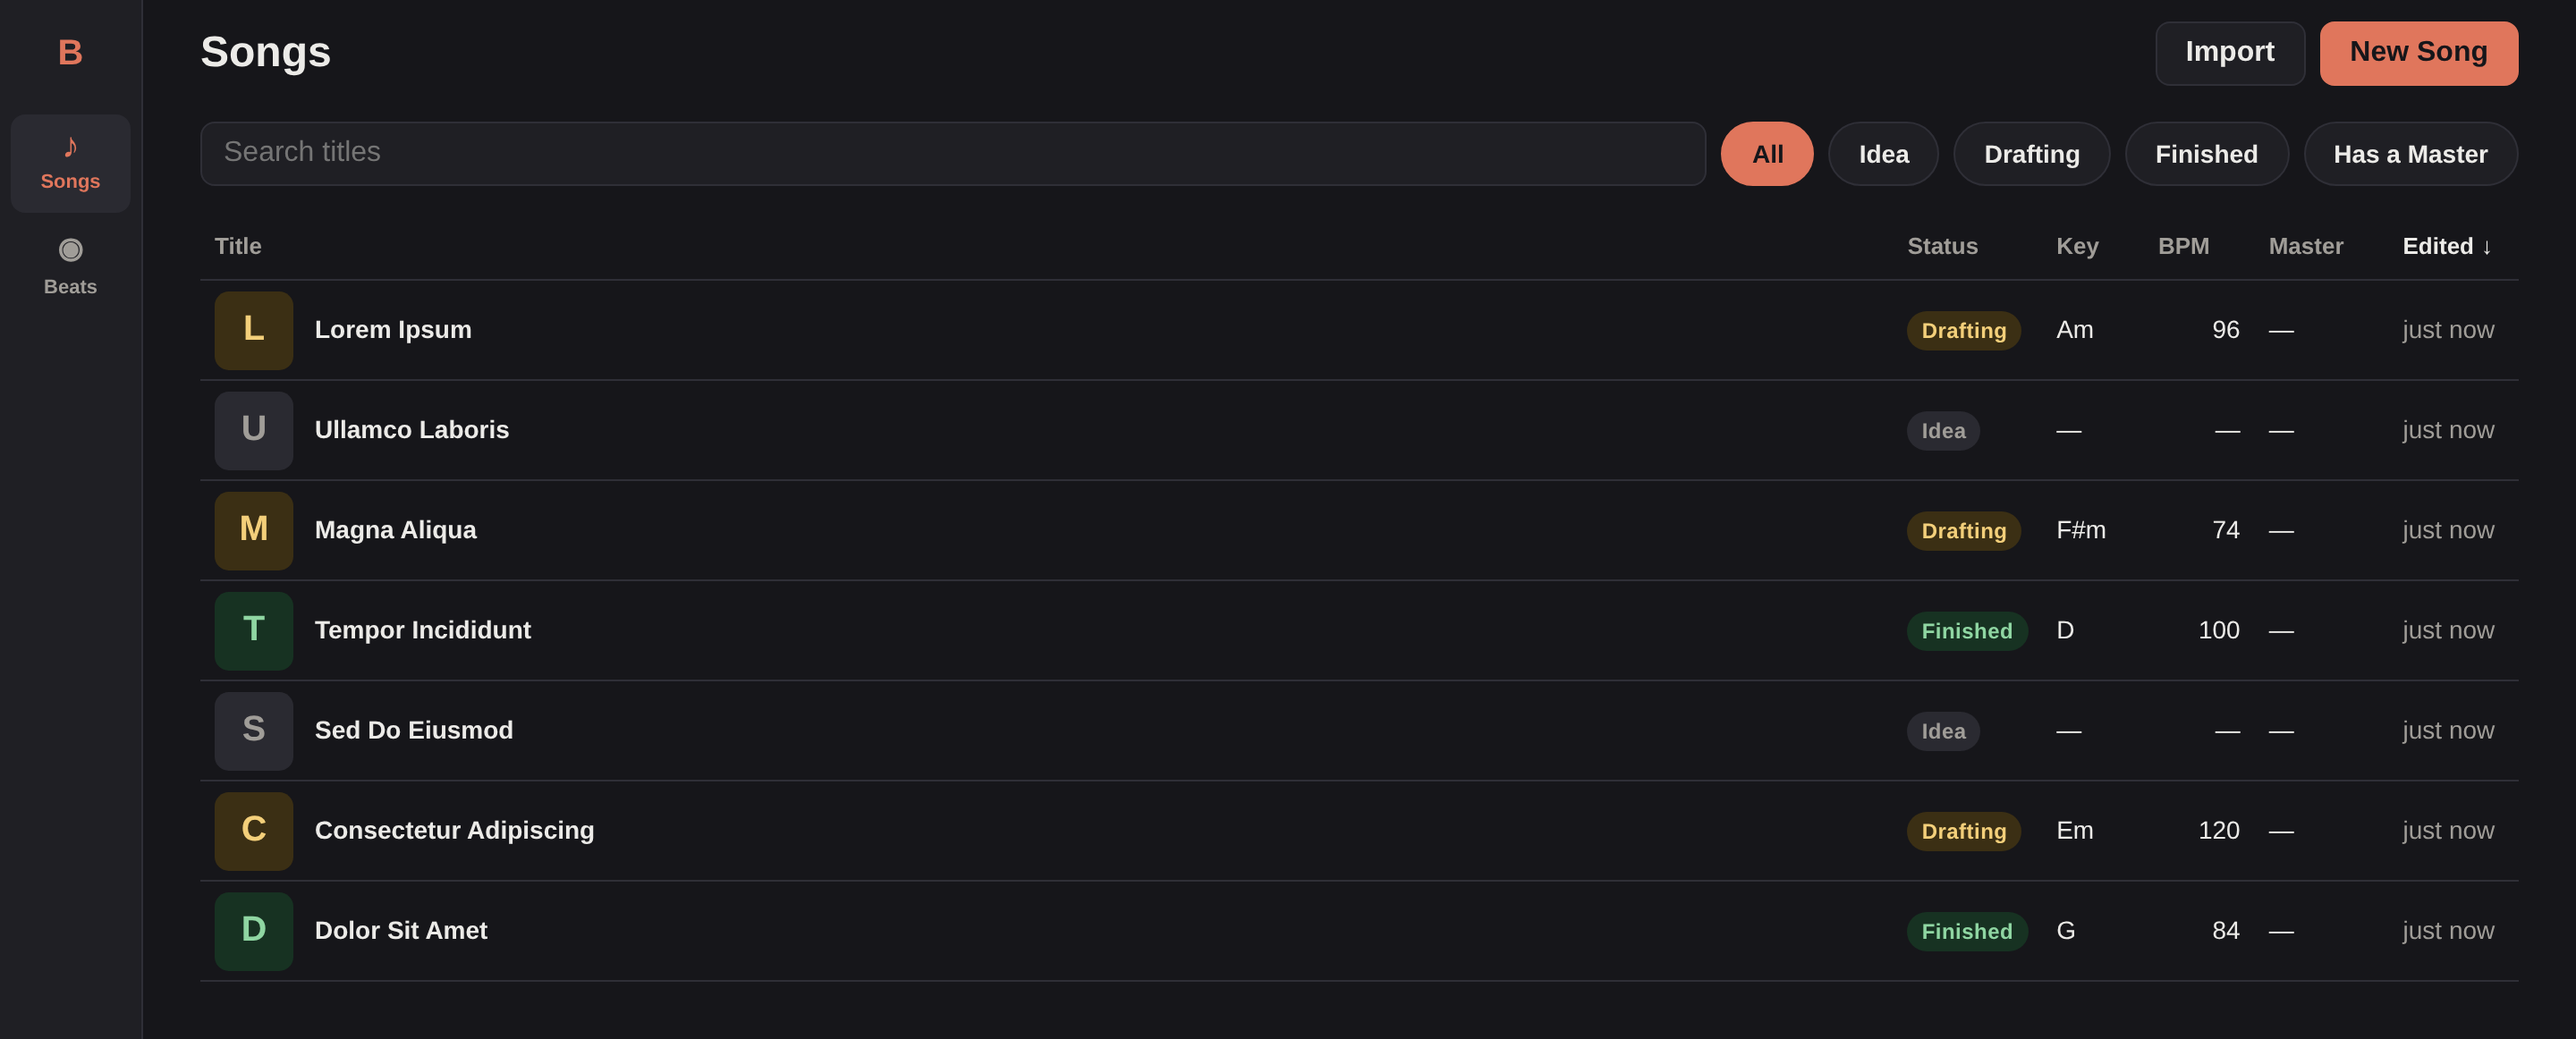
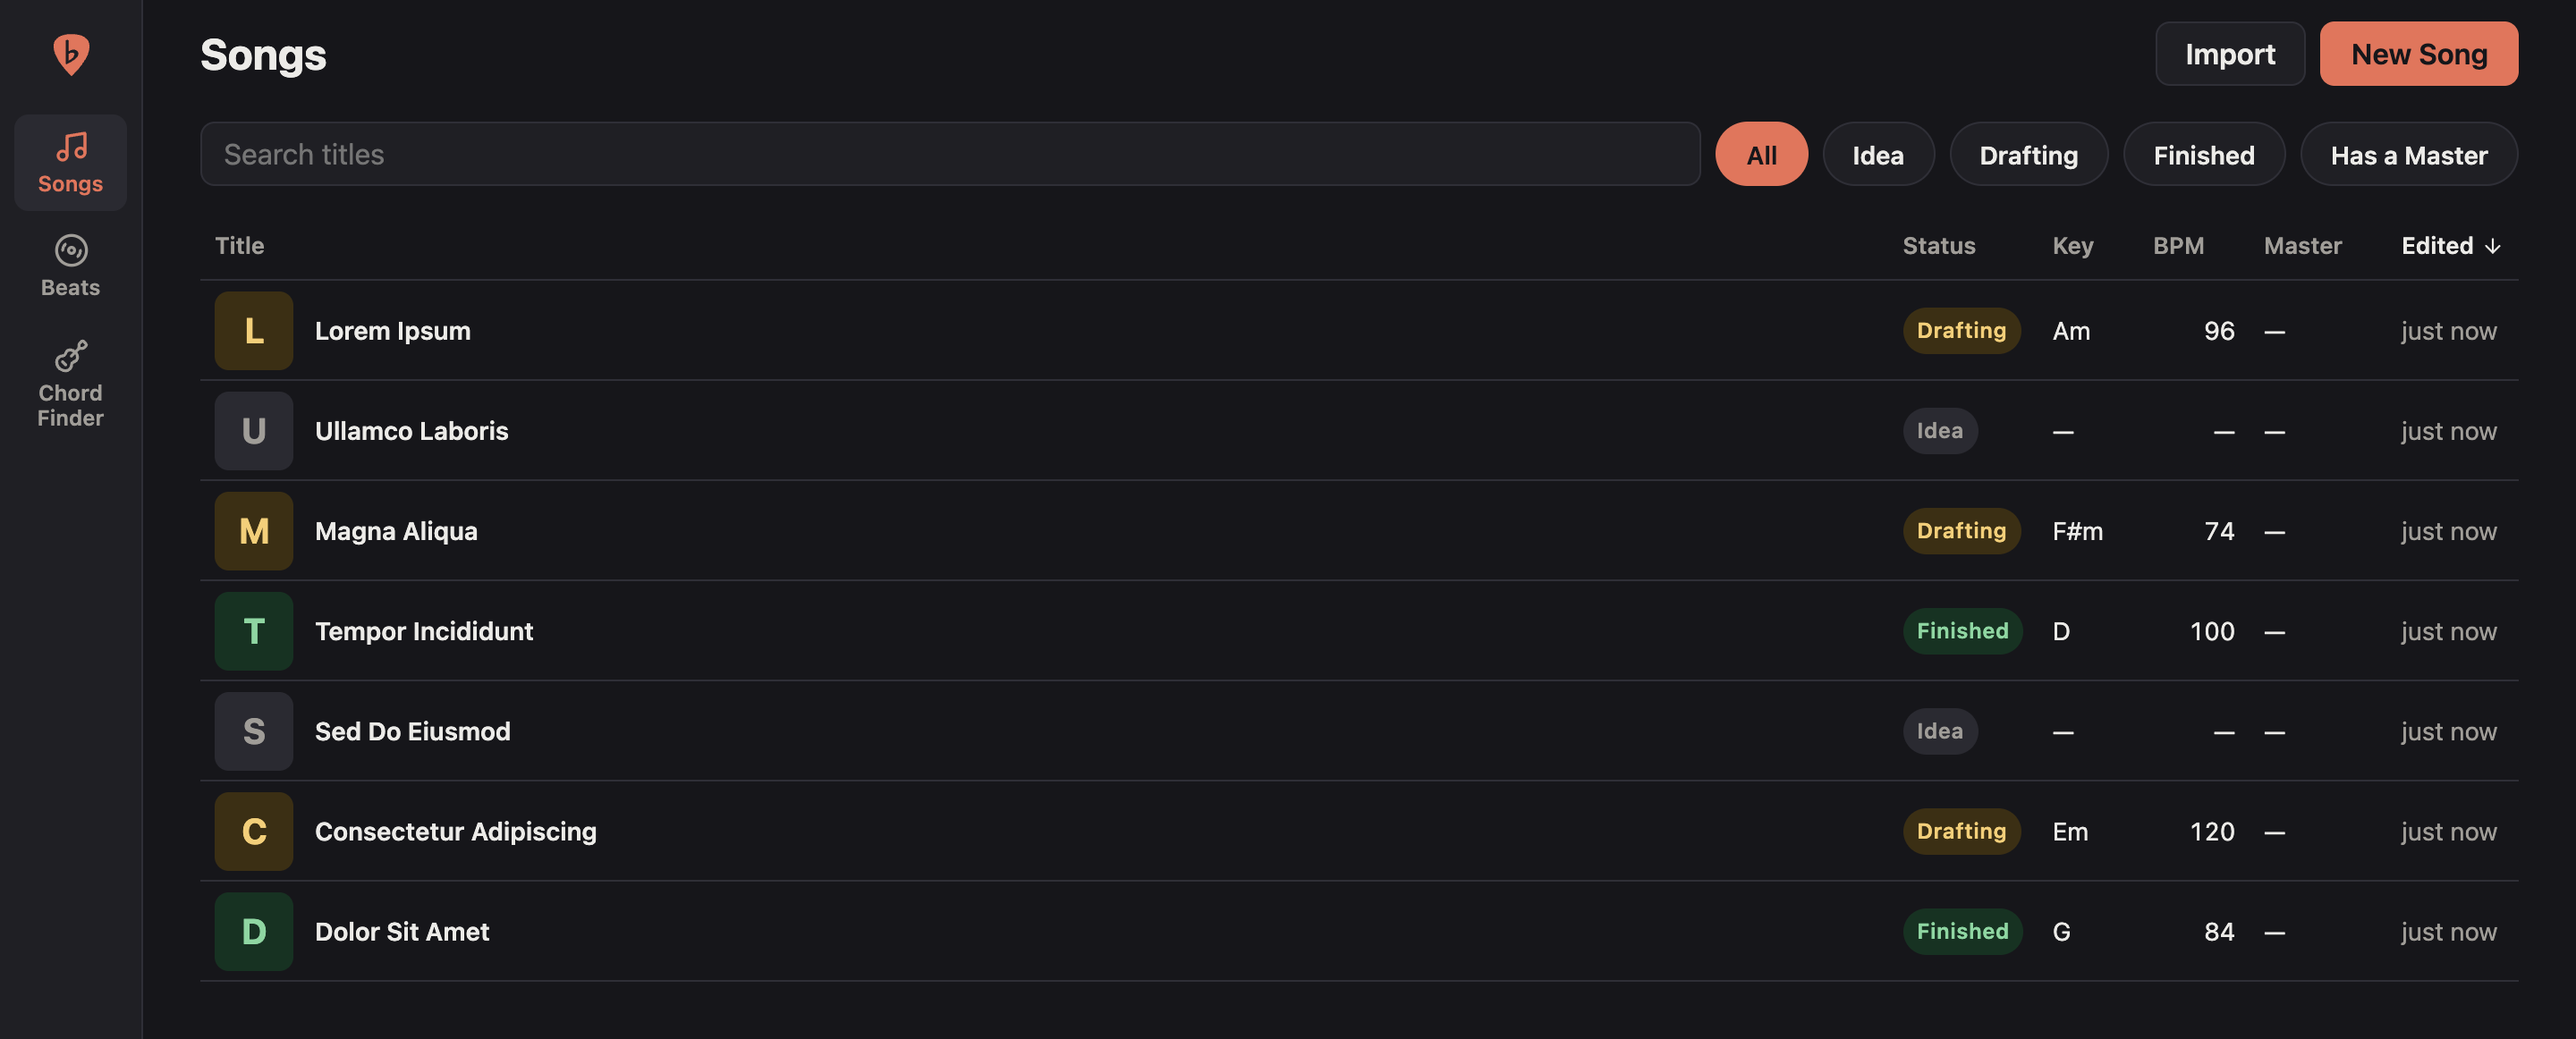
Fix review findings, and retake the README screenshots that show the mark
The favicon draws the mark in --accent-text, and a test keeps its two
colours in step with Terracotta's tokens. The README's desktop shots and
social preview are retaken with the new mark in the nav rail.

diff --git a/web/src/lib/brandMark.test.ts b/web/src/lib/brandMark.test.ts
@@ -3,8 +3,8 @@ import { join } from 'node:path';
 import { describe, expect, it } from 'vitest';
 import { markPath } from './brandMark';
 
-const web = join(import.meta.dirname, '../..');
-const read = (path: string) => readFileSync(join(web, path));
+const webRoot = join(import.meta.dirname, '../..');
+const read = (path: string) => readFileSync(join(webRoot, path));
 const indexHtml = read('index.html').toString();
 
 /** The width and height a PNG's header gives. */
@@ -27,6 +27,15 @@ describe('brand marks', () => {
 
   it('draws the favicon from the same mark as the app', () => {
     expect(read('public/favicon.svg').toString()).toContain(`d="${markPath}"`);
+  });
+
+  it("draws the static icons in Terracotta's light accent, the default Palette", () => {
+    // Terracotta's light set comes first in palettes.css.
+    const palettes = read('src/palettes.css').toString();
+    const token = (name: string) => palettes.match(new RegExp(`--${name}: (#[0-9a-f]{6});`))?.[1];
+    const favicon = read('public/favicon.svg').toString();
+    expect(favicon).toContain(`fill="${token('accent')}"`);
+    expect(favicon).toContain(`fill="${token('accent-text')}"`);
   });
 
   it("gives iOS a 180px PNG for the home screen, since it won't take an SVG", () => {

diff --git a/web/src/lib/brandMark.ts b/web/src/lib/brandMark.ts
@@ -1,8 +1,5 @@
-// Bandmate's mark: a guitar pick with a flat, ♭, cut out of it, written as a
-// pen stroke, for the B of Bandmate. One even-odd path on a 32-unit square,
-// so the flat's bowl fills again inside its cut-out. BrandMark draws it in
-// the app; public/favicon.svg draws the same path, and public/favicon.ico and
-// public/apple-touch-icon.png are rendered from it (docs/design.md, Brand
-// marks).
+// Bandmate's mark, one even-odd path on a 32-unit square: BrandMark draws
+// it in the app, and public/favicon.svg draws the same path (docs/design.md,
+// Brand marks).
 export const markPath =
   'M16 30.5C11 25.5 4.5 18 4.5 11.2 4.5 6 9.5 3.5 16 3.5s11.5 2.5 11.5 7.7C27.5 18 21 25.5 16 30.5ZM12.22 7.92c0-.54.42-.84.96-.84s.96.3.96.84V14.52c1.56-1.14 3.72-1.56 5.16-.6 1.8 1.2 1.38 3.54-.66 5.28-1.56 1.32-3.6 2.58-6.18 3.66-.12-.06-.24-.18-.24-.36ZM14.14 16.26c1.14-.9 2.58-1.2 3.3-.6.78.66.36 1.98-.84 3.06-.72.66-1.5 1.26-2.46 1.74Z';

diff --git a/docs/design.md b/docs/design.md
@@ -179,10 +179,10 @@ One icon, one meaning, across the app. Every icon in use is here: a new one is a
 Bandmate's mark is a guitar pick with a flat, ♭, cut out of it: the B of Bandmate, written as a pen stroke, thin in the stem and heavier in the bowl. It's one even-odd path on a 32-unit square, `markPath` in `brandMark.ts`, so the flat's bowl fills in again inside its cut-out.
 
 - **In the app**, `BrandMark` draws it in the accent, so it follows the Palette and theme: atop the nav rail at `--mark-rail`, and in About at `--mark-large`.
-- **The favicon** is the same path in the paper colour on a rounded Terracotta tile, the default Palette, since the file is static: `public/favicon.svg`, and `public/favicon.ico` holding it at 16 and 32px for browsers that don't take an SVG. At 32px the flat reads; at 16px it's a hint.
+- **The favicon** is the same path in `--accent-text` on a rounded tile of `--accent`, both Terracotta's light values, the default Palette's, since the file is static: `public/favicon.svg`, and `public/favicon.ico` holding it at 16 and 32px for browsers that don't take an SVG. At 32px the flat reads; at 16px it's a hint.
 - **The home-screen icon** is `public/apple-touch-icon.png`, 180px: the mark smaller on a square of Terracotta, since iOS takes only a PNG and rounds the corners itself.
 
-`brandMark.test.ts` checks `index.html` declares all three and that `favicon.svg` draws `markPath`. The two raster files are rendered from the SVG: when the mark changes, render the tile at 16, 32 and 180px in a browser and write them again.
+`brandMark.test.ts` checks `index.html` declares all three, and that `favicon.svg` draws `markPath` in those two colours. The two raster files are rendered from the SVG: when the mark changes, render the tile at 16, 32 and 180px in a browser and write them again.
 
 ### The Timeline's own scale
 
